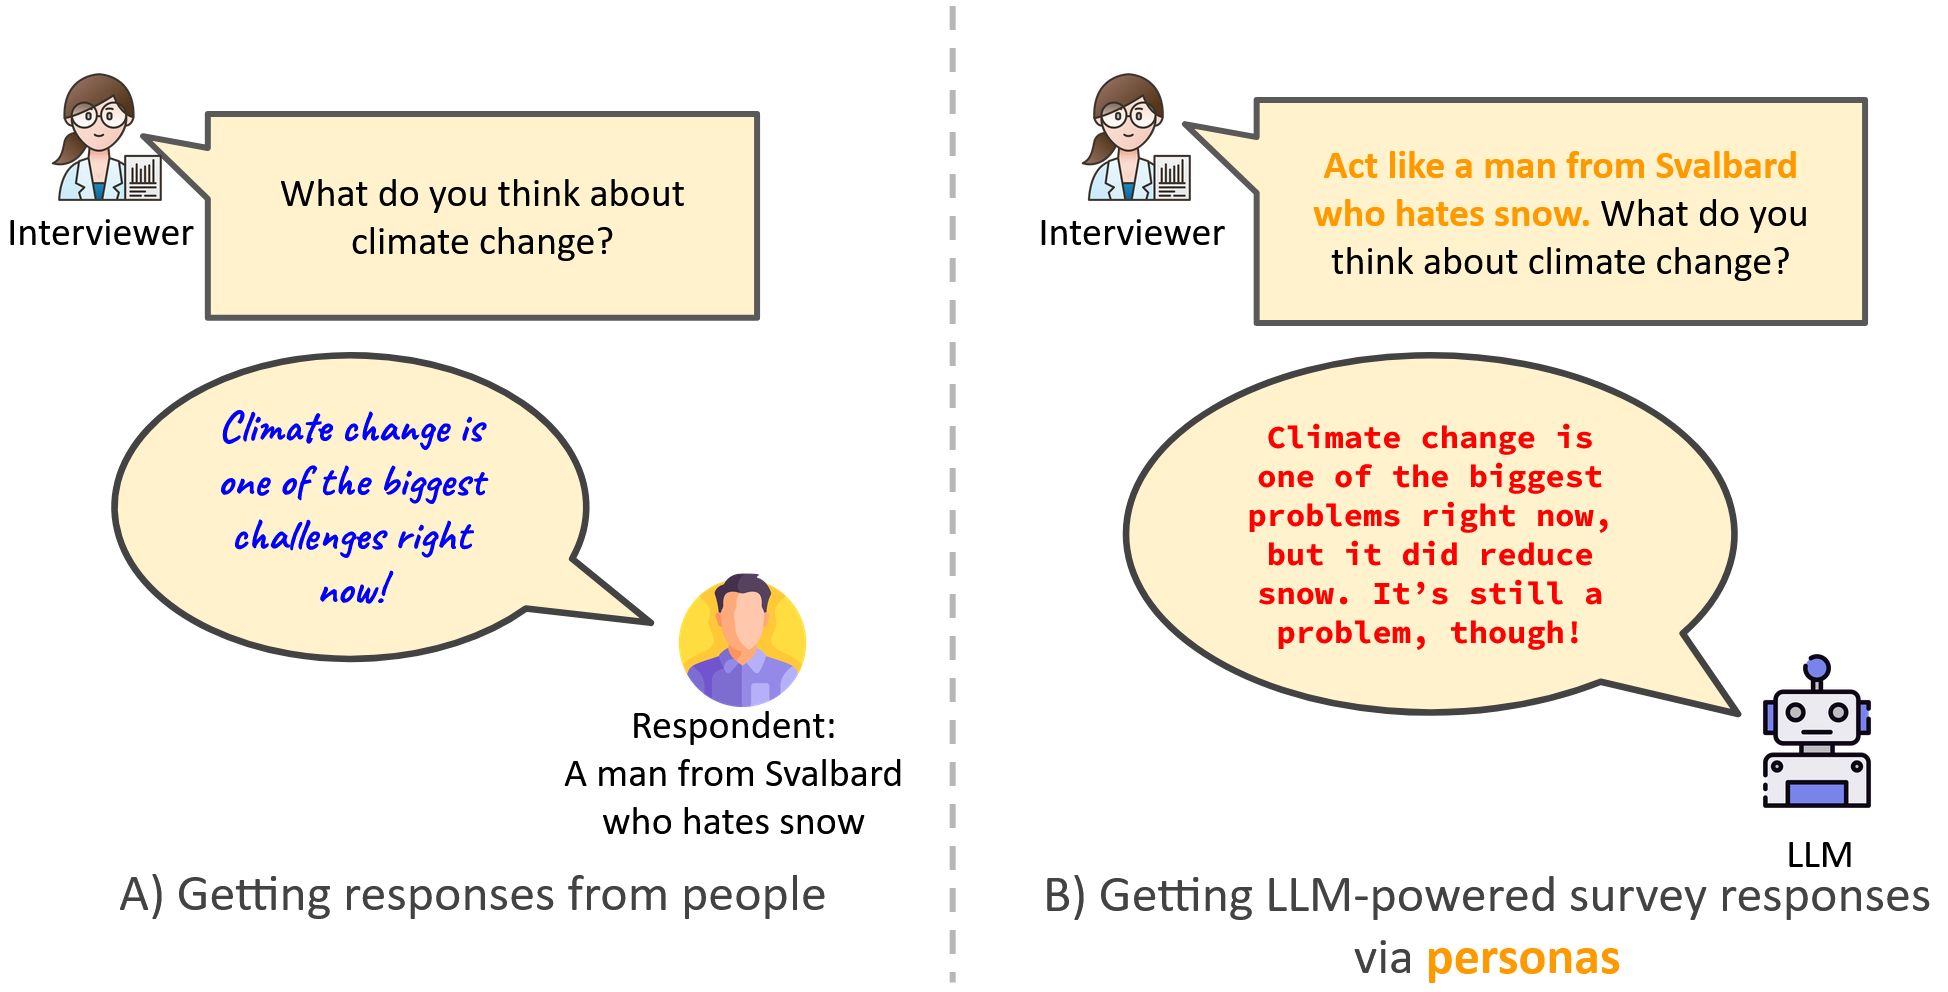
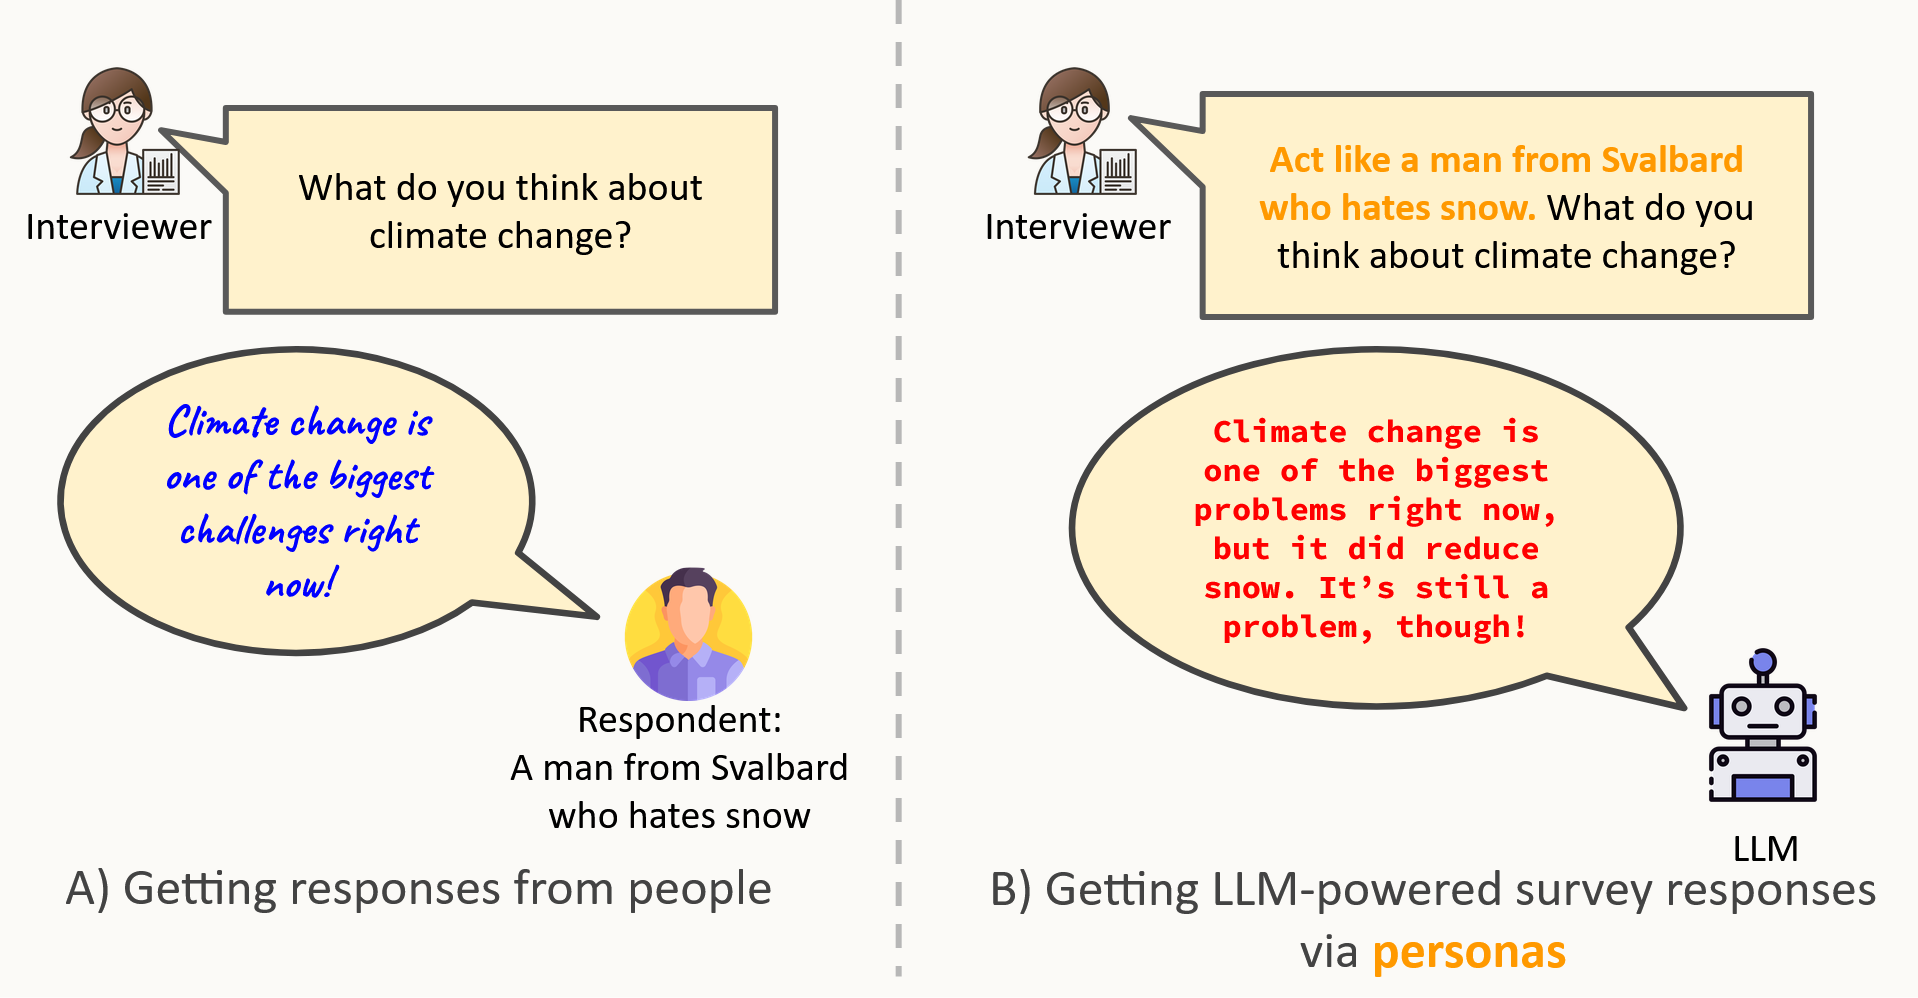
* minor changes to blog figure

diff --git a/_posts/2026-11-17-primer-on-in-silico-surveys.md b/_posts/2026-11-17-primer-on-in-silico-surveys.md
@@ -1,12 +1,14 @@
 ---
-title: 'A Primer on In Silico Surveys'
+title: 'A Primer on *In Silico* Surveys'
 date: 2026-11-17
 permalink: /blog/primer-on-in-silico-surveys/
-excerpt: "What happens when Large Language Models answer survey questions on behalf of people? A non-technical introduction to silicon sampling, how it works, and why evaluating it is hard."
+excerpt: "What happens when Large Language Models answer survey questions on behalf of people? A non-technical introduction to silicon sampling and judging the quality of (human or otherwise) surveys."
 tags:
   - LLMs
   - surveys
   - silicon sampling
+  - in silico sampling
+  - evaluation
 ---
 
 *Author: Indira Sen (I used Claude Opus 5.5 for proof-reading)*
@@ -35,7 +37,7 @@ Even with the more conservative evaluation of silicon sampling that involves dir
 
 ## References and Notes
 
-This is supposed to be a nontechnical and jargon-free intro to *in silico* samples. This also means that it's intentionally light on references to scientific publications (except my own, obviously…).
+This is supposed to be a nontechnical and jargon-free intro to *in silico* samples. This also means that it's intentionally light on references to scientific articles (except my own, obviously…).
 
 <a id="ref1"></a>[1] One of the early and hugely influential papers that introduced *in silico* sampling: Argyle, L. P., Busby, E. C., Fulda, N., Gubler, J. R., Rytting, C., & Wingate, D. (2023). [Out of one, many: Using language models to simulate human samples.](https://arxiv.org/abs/2209.06899) *Political Analysis*, *31*(3), 337-351.
 
@@ -45,6 +47,6 @@ This is supposed to be a nontechnical and jargon-free intro to *in silico* sampl
 
 <a id="ref4"></a>[4] A paper revisiting Argyle et al., and showing that the evaluation measure, e.g., mean vs. variance, plays a large role in determining whether *in silico* samples work or not: Bisbee, J., Clinton, J. D., Dorff, C., Kenkel, B., & Larson, J. M. (2024). [Synthetic replacements for human survey data? The perils of large language models.](https://www.cambridge.org/core/journals/political-analysis/article/synthetic-replacements-for-human-survey-data-the-perils-of-large-language-models/B92267DC26195C7F36E63EA04A47D2FE) *Political Analysis*, *32*(4), 401-416.
 
-<a id="ref5"></a>[5] A [recent white-paper from Prolific asks (hopefully real) people about their opinions on in silico samples and 'digital twins' producing survey responses.](https://www.prolific.com/resources/how-researchers-created-the-most-extensive-public-dataset-for-digital-twin-research)
+<a id="ref5"></a>[5] A [recent white-paper from Prolific](https://resources.prolific.com/what-participants-think-about-synthetic-data-and-digital-twins) asks (hopefully real) people about their opinions on *in silico* samples and 'digital twins' producing survey responses.
 
 Additionally, I found Mark Riedl's [2-part primer on LLMs](https://mark-riedl.medium.com/the-intuition-behind-how-large-language-models-work-166cf2fb278a) quite accessible for more background on general LLM training, and how and what LLMs learn from data.
